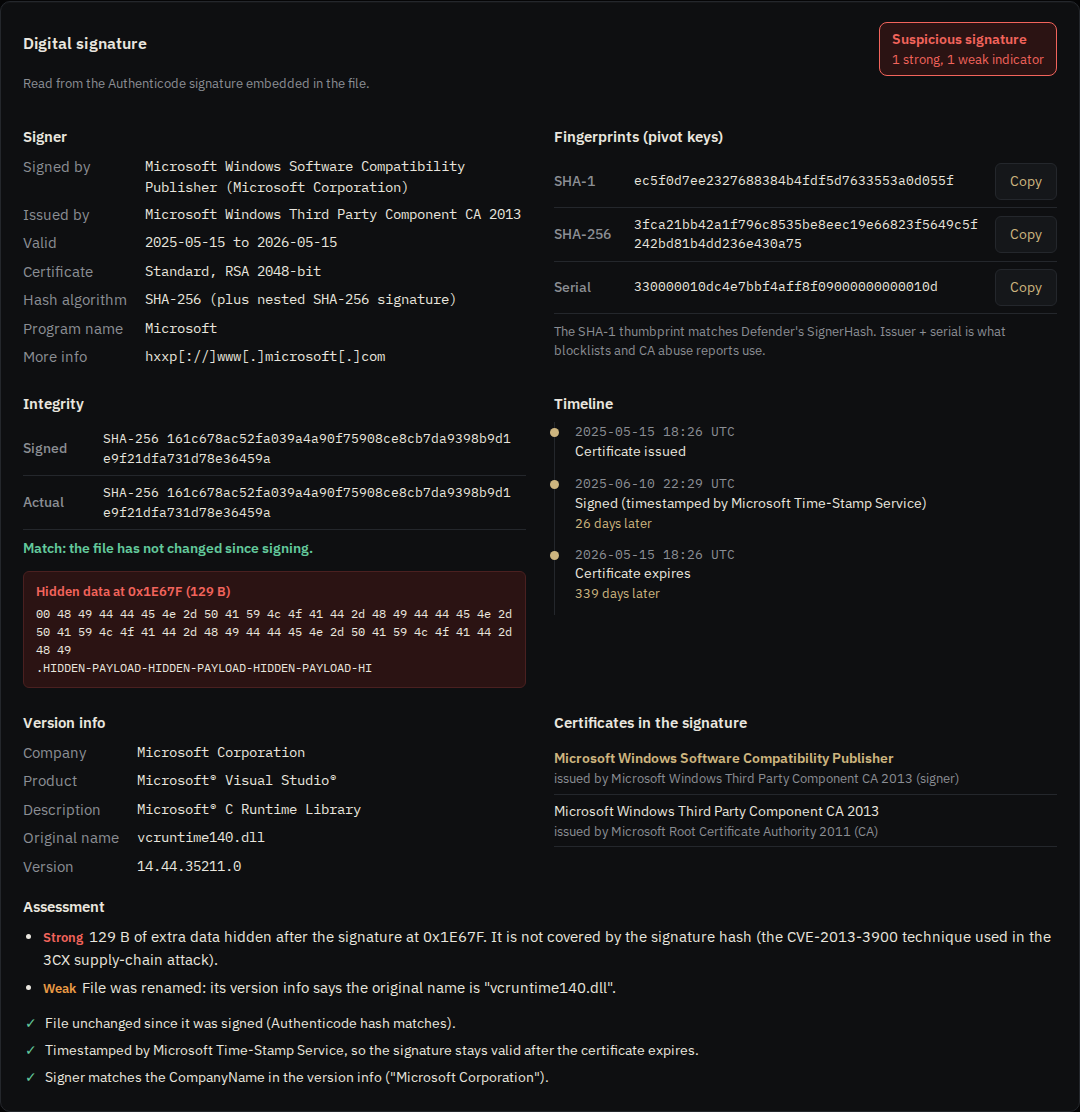
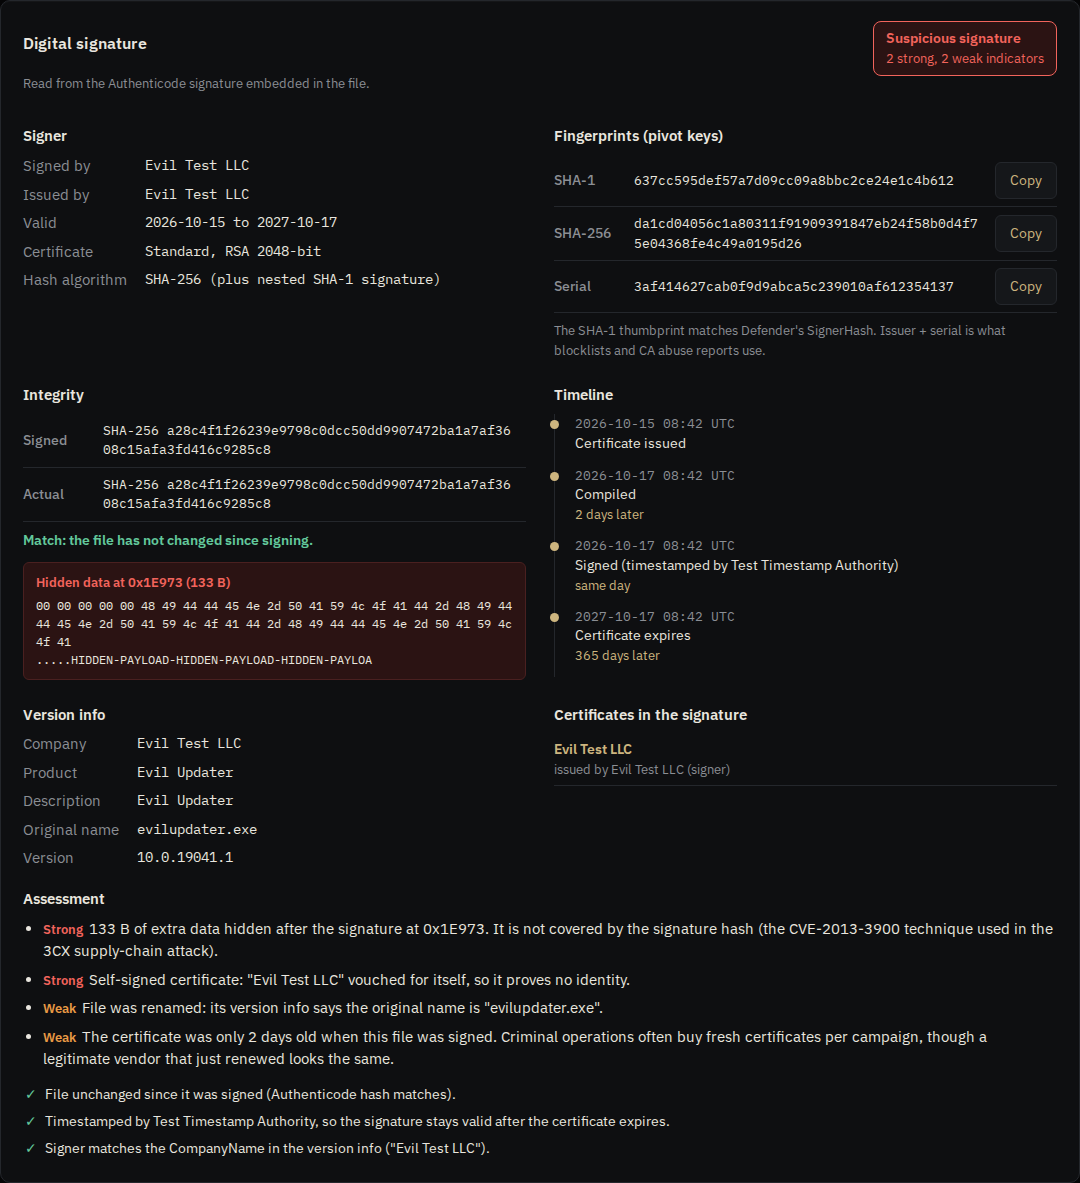
Use fictional vendor in examples

Changed region(s): [[0.0, 0.0306, 0.9778, 0.9784], [0.7944, 0.0, 0.9778, 0.0917]]

diff --git a/tests/verify.py b/tests/verify.py
@@ -76,7 +76,7 @@ EXPECTED = {
                               "Telegram bot API", "Tampers with Microsoft Defender", "Mining pool protocol"],
     "network.exe":           ["hxxp[://]203[.]0[.]113[.]50:8080/gate.php", "Raw IP host", "Links to a file download", "Possibly a version number"],
     "corroboration.exe":     ["Corroborated by strings"],
-    "svc_update.exe":        ["Suspicious signature", "Self-signed certificate", "claims to be from Microsoft", "svchost.exe", "outdated SHA-1"],
+    "update_helper.exe":     ["Suspicious signature", "Self-signed certificate", "outdated SHA-1", "does not match the CompanyName \"Lumora Software Inc.\"", "lumora_update.exe"],
     "evilupdater.exe":       ["nested SHA-1", "Self-signed certificate"],
     "expired_no_timestamp.exe": ["No timestamp", "has expired and there is no timestamp"],
     "outside_validity.exe":  ["when the certificate was not valid"],
@@ -103,6 +103,29 @@ async def check_findings(page):
             benign = await page.eval_on_selector("details.benign", "d => d.textContent")   # collapsed, so read all text
             check("network.exe: XML namespace URL set aside as routine", "schemas[.]microsoft[.]com" in benign)
         await back(page)
+
+
+async def check_signer_rules(page):
+    print("\nSigner rules tested directly (made-up data, no test binary)")
+    result = await page.evaluate("""() => {
+        const signedBy = org => ({ status: "signed", hashMatches: true, hidden: [], unknownUnauth: [], nested: [],
+            digest: { name: "SHA-256", weak: false }, timestamp: null, claimedSigningTime: null,
+            cert: { subject: { fields: { O: org, CN: org }, text: "CN=" + org + ", O=" + org, rawHex: "aa" }, issuer: { rawHex: "bb" },
+                    eku: null, policies: [], keyAlg: "RSA", keyBits: 2048,
+                    notBefore: new Date("2024-01-01"), notAfter: new Date("2027-01-01") } });
+        const red = (sig, ver, name) => assessSigner(sig, ver, name, { flag: null }, 0).red.map(r => r.strength + ": " + r.text);
+        return {
+            brand: red(signedBy("Some Signer LLC"), { CompanyName: "Adobe Inc.", ProductName: "Adobe Reader" }, "reader.exe"),
+            systemFile: red(signedBy("Some Signer LLC"), { CompanyName: "Some Signer LLC", OriginalFilename: "lsass.exe" }, "lsass.exe"),
+            fictional: red(signedBy("Some Signer LLC"), { CompanyName: "Lumora Software Inc." }, "update.exe"),
+        };
+    }""")
+    check("a known brand in the version info with a different signer is a strong finding",
+          any(r.startswith("strong") and "claims to be from Adobe" in r for r in result["brand"]), str(result["brand"]))
+    check("a Windows system file name with a non-Windows signer is a strong finding",
+          any(r.startswith("strong") and 'Windows file "lsass.exe"' in r for r in result["systemFile"]), str(result["systemFile"]))
+    check("an unknown company name that differs from the signer is only a weak finding",
+          result["fictional"] and all(r.startswith("weak") for r in result["fictional"]), str(result["fictional"]))
 
 async def check_signatures(page, files):
     print("\nAuthenticode parsing vs signify")
@@ -215,7 +238,7 @@ async def check_size_limit(page):
 async def check_wording_and_notes(page):
     print("\nWording and notes")
     found = set()
-    for name in ["imports-64.exe", "svc_update.exe", "network.exe", "packed-32.exe", "vcruntime140.dll"]:
+    for name in ["imports-64.exe", "update_helper.exe", "network.exe", "packed-32.exe", "vcruntime140.dll"]:
         f = BUILD / name
         if not f.exists():
             continue
@@ -256,10 +279,11 @@ async def main():
         await check_imports(page, pe_files + [f for f in [BUILD / "npp_installer.exe"] if f.exists()])
         await check_strings(page, [BUILD / n for n in ["strings.exe", "network.exe", "imports-64.exe"]])
         await check_findings(page)
-        signed = [BUILD / n for n in ["svc_update.exe", "evilupdater.exe", "expired_no_timestamp.exe", "outside_validity.exe",
+        await check_signer_rules(page)
+        signed = [BUILD / n for n in ["update_helper.exe", "evilupdater.exe", "expired_no_timestamp.exe", "outside_validity.exe",
                                       "vcruntime140.dll", "npp_installer.exe"] if (BUILD / n).exists()]
         await check_signatures(page, signed)
-        await check_fuzz(page, [BUILD / "imports-64.exe", BUILD / "svc_update.exe"])
+        await check_fuzz(page, [BUILD / "imports-64.exe", BUILD / "update_helper.exe"])
         await browser.close()
     passed = sum(results)
     print(f"\n{passed} of {len(results)} checks passed")

diff --git a/tests/README.md b/tests/README.md
@@ -40,6 +40,7 @@ python3 verify.py
 | ASCII and wide string counts | GNU `strings` |
 | Signed hash, certificate thumbprint and serial | signify |
 | Expected findings for each test file | Known contents of each fixture |
+| Brand-impersonation and Windows-system-file rules | Made-up signer data, checked directly |
 | Corrupted headers and signatures never crash the page | Browser error log |
 
 ## Test files
@@ -51,7 +52,7 @@ python3 verify.py
 | `strings.exe` | `fixtures/strings_fixture.c` | String rules, including wide strings |
 | `network.exe` | `fixtures/network_fixture.c` | URL and IP extraction, defanging, noise filtering |
 | `corroboration.exe` | `fixtures/corroboration_fixture.c` | Strings backing up capabilities |
-| `svc_update.exe` | `minimal.c` + `version_impersonation.rc`, signed | Impersonation of Microsoft and svchost.exe, self-signed, SHA-1, fresh certificate |
+| `update_helper.exe` | `minimal.c` + `version_impersonation.rc`, signed | Version info claiming a (fictional) vendor while signed by someone else, self-signed, SHA-1, fresh certificate, renamed file |
 | `evilupdater.exe` | `minimal.c` + `version_consistent.rc`, signed twice | Nested signatures, name consistency |
 | `expired_no_timestamp.exe` | signed with an expired certificate | Missing timestamp, expiry |
 | `outside_validity.exe` | timestamped after the certificate expired | Signing outside the validity window |
